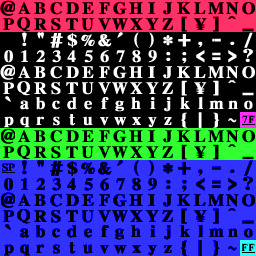
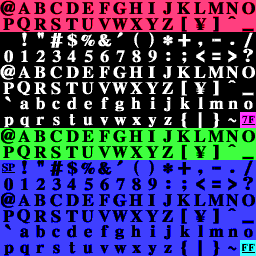
change 72dpi_ascii_reigasou_16x16.png

diff --git a/src/LNG/LNGtexture.cpp b/src/LNG/LNGtexture.cpp
@@ -214,7 +214,8 @@ void LNGloader::LoadNext(void)
   for(it = textures->begin(); it != textures->end(); ++it){
     if(!(*it)->loading) continue;
     if((*it)->blocking) continue;
-    GLuint id = (*it)->Load(string("72dpi.png"), true);
+//    GLuint id = (*it)->Load(string("72dpi.png"), true);
+    GLuint id = (*it)->Load(string("72dpi_ascii_reigasou_16x16.png"), true);
     exist = true;
     break; // load only 1 texture
   }
